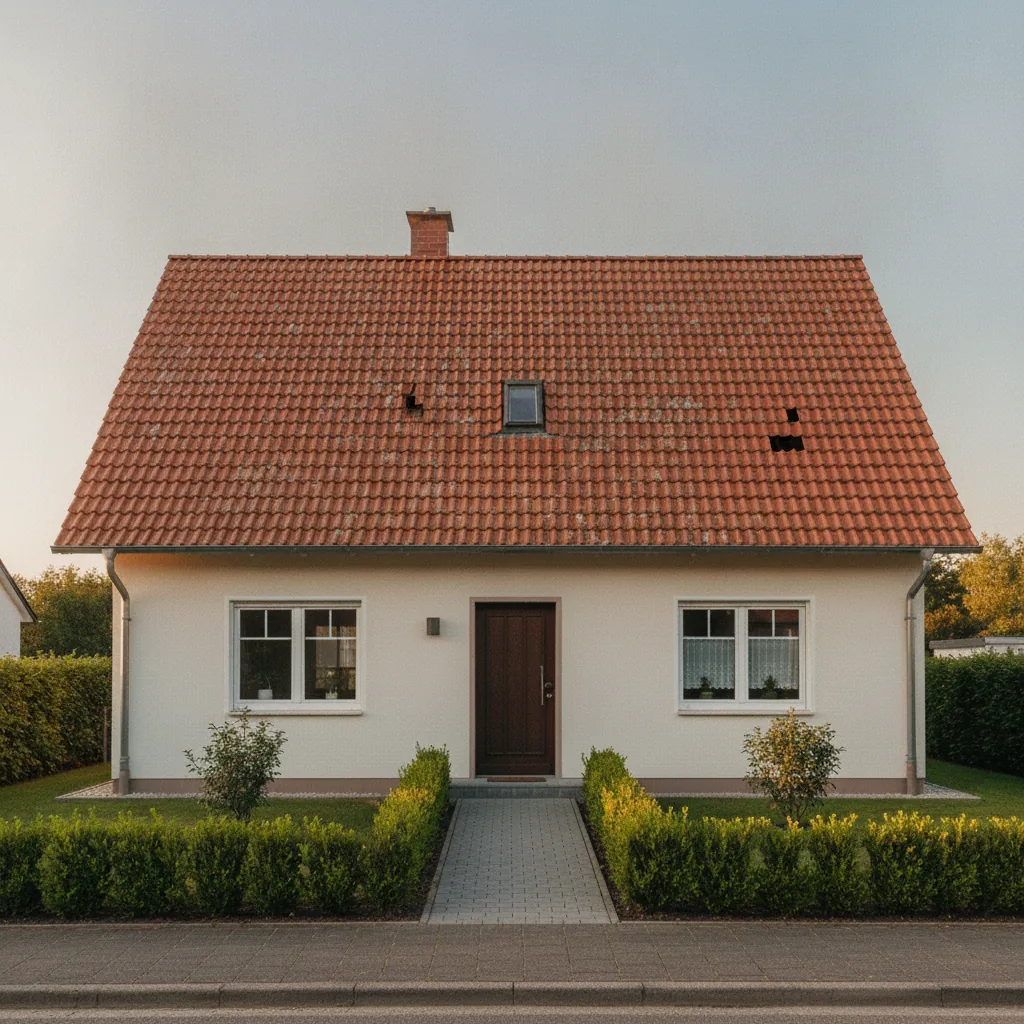
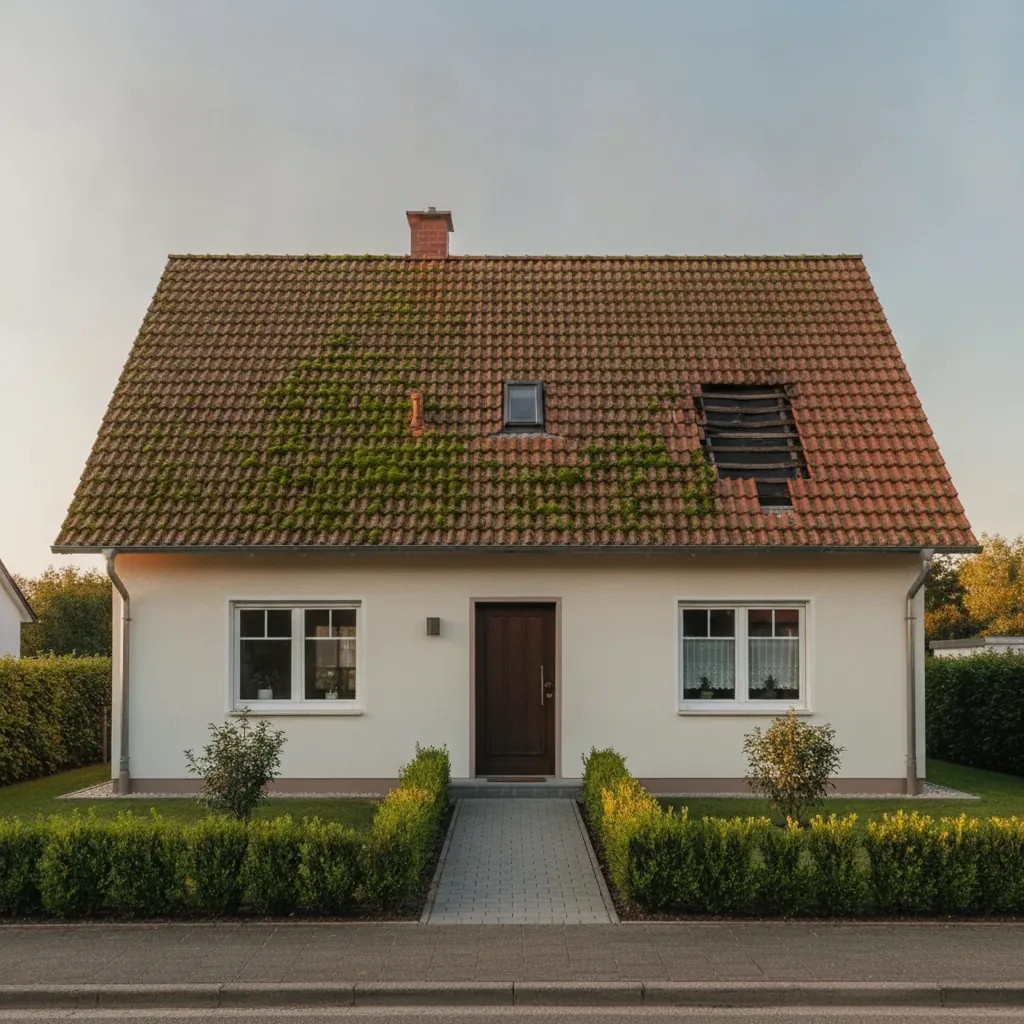
Dachwerk Lindenhof: rustikaleres Dach, freischwebende Nav-Pill, mehr Animation
- Vorher-Dachfoto (Hero + Ziegel-Detail) neu erzeugt: realistischere fehlende
  Dachziegel (sichtbare Dachlatten/Unterspannbahn statt flacher schwarzer
  Flaeche) und insgesamt rustikaleres, staerker bemoostes Erscheinungsbild.
- Navigation auf freischwebende, abgerundete Pill umgestellt (wie auf
  webdesign-ehmann.de), faellt auf schmalen Viewports auf einen vollflaechigen
  Balken zurueck (iOS-Safari-Sicherheit fuer das mobile Menue).
- Mehr Bewegung: gestaffelte Hero-Eintrittsanimation, Nav-Link-Unterstrich-
  Hover, pulsierendes Eyebrow-Icon, Hover-Lift + Schatten auf Arbeit-/
  Leistungs-Kacheln, Shine-Sweep auf dem primaeren CTA-Button, gestaffelte
  Reveal-Verzoegerung fuer Grid-Kacheln.

diff --git a/vorschau/dachwerk-lindenhof/css/style.css b/vorschau/dachwerk-lindenhof/css/style.css
@@ -59,7 +59,7 @@ p { margin: 0; }
 
 /* ---------- Demo-Badge ---------- */
 .demo-badge {
-  position: fixed; top: 98px; right: 14px; z-index: 1200;
+  position: fixed; top: 90px; right: 14px; z-index: 1200;
   background: rgba(22, 35, 46, 0.85); color: #fff;
   font-family: var(--font-body); font-size: 12px; font-weight: 600; letter-spacing: 0.02em;
   padding: 7px 14px; border-radius: var(--radius-pill);
@@ -78,9 +78,17 @@ p { margin: 0; }
 .eyebrow::before {
   content: ""; width: 7px; height: 7px; border-radius: 2px; background: var(--copper);
   transform: rotate(45deg); flex: none;
+  animation: eyebrow-pulse 2.4s ease-in-out infinite;
 }
 .eyebrow--light { color: #f0c9a8; }
 .eyebrow--light::before { background: #f0c9a8; }
+@keyframes eyebrow-pulse {
+  0%, 100% { transform: rotate(45deg) scale(1); opacity: 1; }
+  50% { transform: rotate(45deg) scale(1.35); opacity: 0.65; }
+}
+@media (prefers-reduced-motion: reduce) {
+  .eyebrow::before { animation: none; }
+}
 
 /* ---------- Buttons ---------- */
 .btn {
@@ -91,36 +99,71 @@ p { margin: 0; }
   transition: transform 0.2s ease, background-color 0.2s ease, border-color 0.2s ease, color 0.2s ease, box-shadow 0.2s ease;
 }
 .btn:hover { transform: translateY(-2px); }
-.btn--primary { background: var(--copper); color: #fff; box-shadow: 0 10px 24px rgba(193,102,46,0.35); }
+.btn--primary {
+  position: relative; overflow: hidden;
+  background: var(--copper); color: #fff; box-shadow: 0 10px 24px rgba(193,102,46,0.35);
+}
 .btn--primary:hover { background: var(--copper-deep); }
+.btn--primary::before {
+  content: ""; position: absolute; top: 0; bottom: 0; left: -60%; width: 40%;
+  background: linear-gradient(115deg, transparent, rgba(255,255,255,0.35), transparent);
+  transform: skewX(-20deg); transition: left 0.6s ease;
+}
+.btn--primary:hover::before { left: 130%; }
 .btn--outline { background: transparent; color: #fff; border-color: rgba(255,255,255,0.6); }
 .btn--outline:hover { border-color: #fff; background: rgba(255,255,255,0.08); }
 .btn--dark { background: var(--ink); color: #fff; }
 .btn--dark:hover { background: var(--ink-soft); }
 .btn--sm { padding: 10px 20px; font-size: 0.88rem; }
 
-/* ---------- Nav ---------- */
+/* ---------- Nav: freischwebende Pill (wie webdesign-ehmann.de) ---------- */
 .nav {
-  position: fixed; top: 0; left: 0; right: 0; z-index: 1000;
-  background: rgba(22, 35, 46, 0.0);
-  transition: background-color 0.3s ease, box-shadow 0.3s ease, backdrop-filter 0.3s ease;
+  position: fixed; top: 14px; left: 14px; right: 14px; z-index: 1000;
+  max-width: calc(var(--container) + 56px);
+  margin: 0 auto;
+  border-radius: var(--radius-pill);
+  background: rgba(22, 35, 46, 0.45);
+  border: 1px solid rgba(255, 255, 255, 0.12);
+  box-shadow: 0 10px 30px rgba(8, 13, 17, 0.25);
+  backdrop-filter: blur(12px); -webkit-backdrop-filter: blur(12px);
+  transition: background-color 0.3s ease, box-shadow 0.3s ease, border-color 0.3s ease;
 }
 .nav.nav--scrolled {
-  background: rgba(22, 35, 46, 0.88);
-  backdrop-filter: blur(10px); -webkit-backdrop-filter: blur(10px);
-  box-shadow: 0 1px 0 rgba(255,255,255,0.06);
+  background: rgba(22, 35, 46, 0.86);
+  border-color: rgba(255, 255, 255, 0.16);
+  box-shadow: 0 16px 40px rgba(8, 13, 17, 0.4);
 }
-.nav__inner { display: flex; align-items: center; justify-content: space-between; height: 84px; }
+.nav__inner { display: flex; align-items: center; justify-content: space-between; height: 68px; }
 .nav__logo { display: flex; align-items: center; gap: 10px; }
-.nav__logo img { width: 38px; height: 38px; }
+.nav__logo img { width: 34px; height: 34px; transition: transform 0.35s cubic-bezier(0.34, 1.56, 0.64, 1); }
+.nav__logo:hover img { transform: rotate(-8deg) scale(1.06); }
 .nav__logo-text { display: flex; flex-direction: column; line-height: 1.05; }
-.nav__logo-name { font-family: var(--font-display); font-weight: 800; font-size: 1.15rem; color: #fff; }
-.nav__logo-sub { font-family: var(--font-body); font-size: 0.68rem; letter-spacing: 0.08em; text-transform: uppercase; color: var(--copper); font-weight: 600; }
+.nav__logo-name { font-family: var(--font-display); font-weight: 800; font-size: 1.05rem; color: #fff; }
+.nav__logo-sub { font-family: var(--font-body); font-size: 0.64rem; letter-spacing: 0.08em; text-transform: uppercase; color: var(--copper); font-weight: 600; }
 
-.nav__desktop { display: flex; align-items: center; gap: 34px; }
-.nav__links { display: flex; gap: 30px; }
-.nav__link { color: rgba(255,255,255,0.86); font-weight: 600; font-size: 0.95rem; transition: color 0.2s ease; }
+.nav__desktop { display: flex; align-items: center; gap: 30px; }
+.nav__links { display: flex; gap: 26px; }
+.nav__link { position: relative; color: rgba(255,255,255,0.86); font-weight: 600; font-size: 0.92rem; transition: color 0.2s ease; }
+.nav__link::after {
+  content: ""; position: absolute; left: 0; right: 0; bottom: -6px; height: 2px;
+  background: var(--copper); transform: scaleX(0); transform-origin: left;
+  transition: transform 0.25s ease;
+}
 .nav__link:hover { color: #fff; }
+.nav__link:hover::after { transform: scaleX(1); }
+
+@media (max-width: 900px) {
+  /* Auf schmalen Viewports volle Breite statt Pill: backdrop-filter auf
+     einem Element mit position:fixed-Kindern (.nav__mobile) verursacht in
+     iOS Safari sonst Compositing-Artefakte (siehe Haupt-Site-Fix). */
+  .nav {
+    top: 0; left: 0; right: 0; max-width: none; margin: 0;
+    border-radius: 0; border: none; border-bottom: 1px solid rgba(255,255,255,0.12);
+    backdrop-filter: none; -webkit-backdrop-filter: none;
+    background: var(--ink);
+  }
+  .nav.nav--scrolled { background: var(--ink); box-shadow: 0 1px 0 rgba(255,255,255,0.06); }
+}
 
 .nav__toggle {
   display: none; width: 44px; height: 44px; border: none; background: transparent;
@@ -139,7 +182,7 @@ p { margin: 0; }
 
 .nav__mobile {
   display: none;
-  position: fixed; inset: 84px 0 0 0; z-index: 999;
+  position: fixed; inset: 68px 0 0 0; z-index: 999;
   background: rgba(22, 35, 46, 0.97); backdrop-filter: blur(10px);
   flex-direction: column; align-items: center; justify-content: center; gap: 28px;
   transform: translateY(-12px); opacity: 0; pointer-events: none;
@@ -191,6 +234,23 @@ p { margin: 0; }
 .hero-stage__lead {
   margin: 22px 0 34px; max-width: 620px; font-size: 1.1rem; color: rgba(255,255,255,0.88);
 }
+
+/* Eintritts-Animation beim Laden: Eyebrow -> Headline -> Text -> Button
+   nacheinander, gestaffelt per animation-delay. */
+.hero-stage__content > * {
+  opacity: 0; transform: translateY(22px);
+  animation: hero-in 0.9s cubic-bezier(0.16, 1, 0.3, 1) forwards;
+}
+.hero-stage__content .eyebrow { animation-delay: 0.1s; }
+.hero-stage__content h1 { animation-delay: 0.22s; }
+.hero-stage__content .hero-stage__lead { animation-delay: 0.36s; }
+.hero-stage__content .btn { animation-delay: 0.5s; }
+@keyframes hero-in {
+  to { opacity: 1; transform: translateY(0); }
+}
+@media (prefers-reduced-motion: reduce) {
+  .hero-stage__content > * { animation: none; opacity: 1; transform: none; }
+}
 .hero-stage__scroll {
   position: absolute; bottom: 34px; left: 50%; transform: translateX(-50%);
   display: flex; flex-direction: column; align-items: center; gap: 10px;
@@ -236,6 +296,16 @@ p { margin: 0; }
   background: var(--paper); border: 1px solid var(--border); border-radius: var(--radius-md);
   overflow: hidden; box-shadow: var(--shadow-card);
 }
+/* Zweifach-Klassen-Selektor noetig, damit diese Transition-Liste (mit
+   box-shadow) die von .reveal (nur opacity/transform) nicht per
+   Selektor-Reihenfolge verliert - beide setzen das Shorthand "transition". */
+.work-card.reveal {
+  transition: opacity 0.6s cubic-bezier(0.16, 1, 0.3, 1), transform 0.5s cubic-bezier(0.16, 1, 0.3, 1), box-shadow 0.4s ease;
+}
+.work-card:hover {
+  transform: translateY(-6px);
+  box-shadow: 0 26px 50px rgba(22, 35, 46, 0.14);
+}
 .work-card__frame {
   position: relative; aspect-ratio: 4 / 3; overflow: hidden; background: var(--ink);
 }
@@ -271,6 +341,14 @@ p { margin: 0; }
 .service-card {
   background: var(--paper); border: 1px solid var(--border); border-radius: var(--radius-md);
   padding: 30px 26px; box-shadow: var(--shadow-card);
+}
+.service-card.reveal {
+  transition: opacity 0.6s cubic-bezier(0.16, 1, 0.3, 1), transform 0.5s cubic-bezier(0.16, 1, 0.3, 1), box-shadow 0.4s ease, border-color 0.4s ease;
+}
+.service-card:hover {
+  transform: translateY(-6px);
+  box-shadow: 0 26px 50px rgba(22, 35, 46, 0.14);
+  border-color: rgba(193, 102, 46, 0.35);
 }
 .service-card h3 { color: var(--copper-deep); font-size: 1.1rem; margin-bottom: 10px; }
 .service-card p { color: var(--text-mute); font-size: 0.95rem; }
@@ -321,8 +399,24 @@ p { margin: 0; }
 .footer__credit a { color: var(--copper); text-decoration: underline; text-underline-offset: 2px; }
 
 /* ---------- Reveal-on-scroll ---------- */
-.reveal { opacity: 0; transform: translateY(24px); transition: opacity 0.7s ease, transform 0.7s ease; }
-.reveal--visible { opacity: 1; transform: translateY(0); }
+.reveal {
+  opacity: 0; transform: translateY(28px) scale(0.98);
+  transition: opacity 0.8s cubic-bezier(0.16, 1, 0.3, 1), transform 0.8s cubic-bezier(0.16, 1, 0.3, 1);
+}
+.reveal--visible { opacity: 1; transform: translateY(0) scale(1); }
+
+/* Gestaffelte Reveal-Verzoegerung fuer Grid-Kacheln (Arbeit/Leistungen) -
+   jede Kachel folgt der vorherigen mit kleinem Versatz statt gleichzeitig
+   aufzupoppen. */
+.work-grid .work-card:nth-child(1),
+.services-grid .service-card:nth-child(1) { transition-delay: 0s; }
+.work-grid .work-card:nth-child(2),
+.services-grid .service-card:nth-child(2) { transition-delay: 0.08s; }
+.work-grid .work-card:nth-child(3),
+.services-grid .service-card:nth-child(3) { transition-delay: 0.16s; }
+.work-grid .work-card:nth-child(4),
+.services-grid .service-card:nth-child(4) { transition-delay: 0.24s; }
+
 @media (prefers-reduced-motion: reduce) {
   .reveal { opacity: 1 !important; transform: none !important; }
 }
